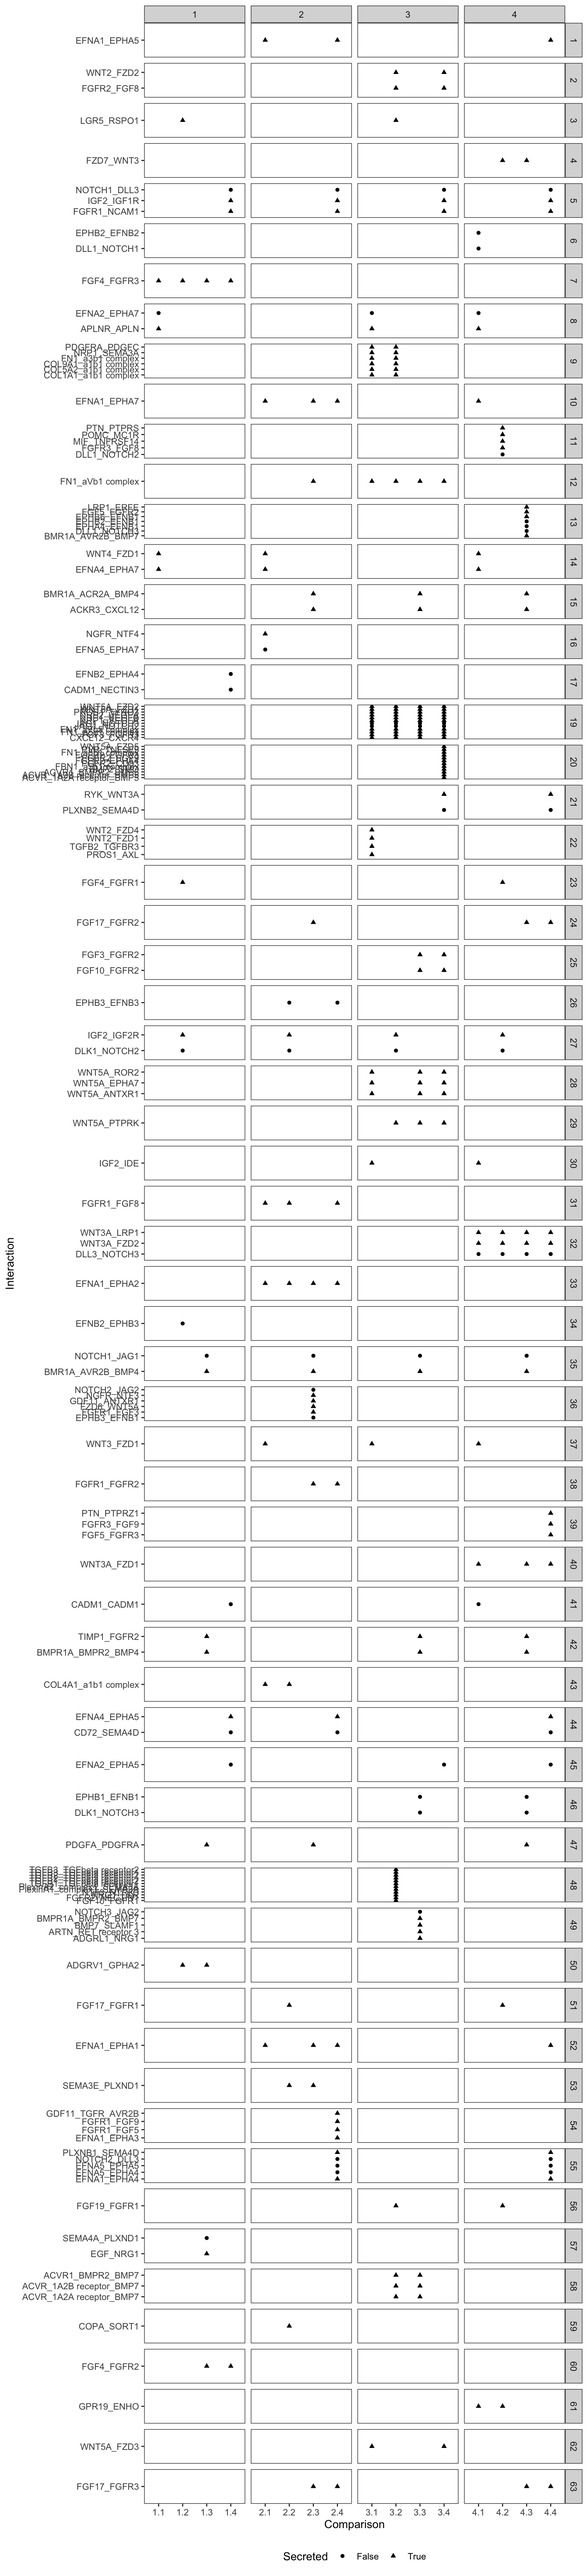
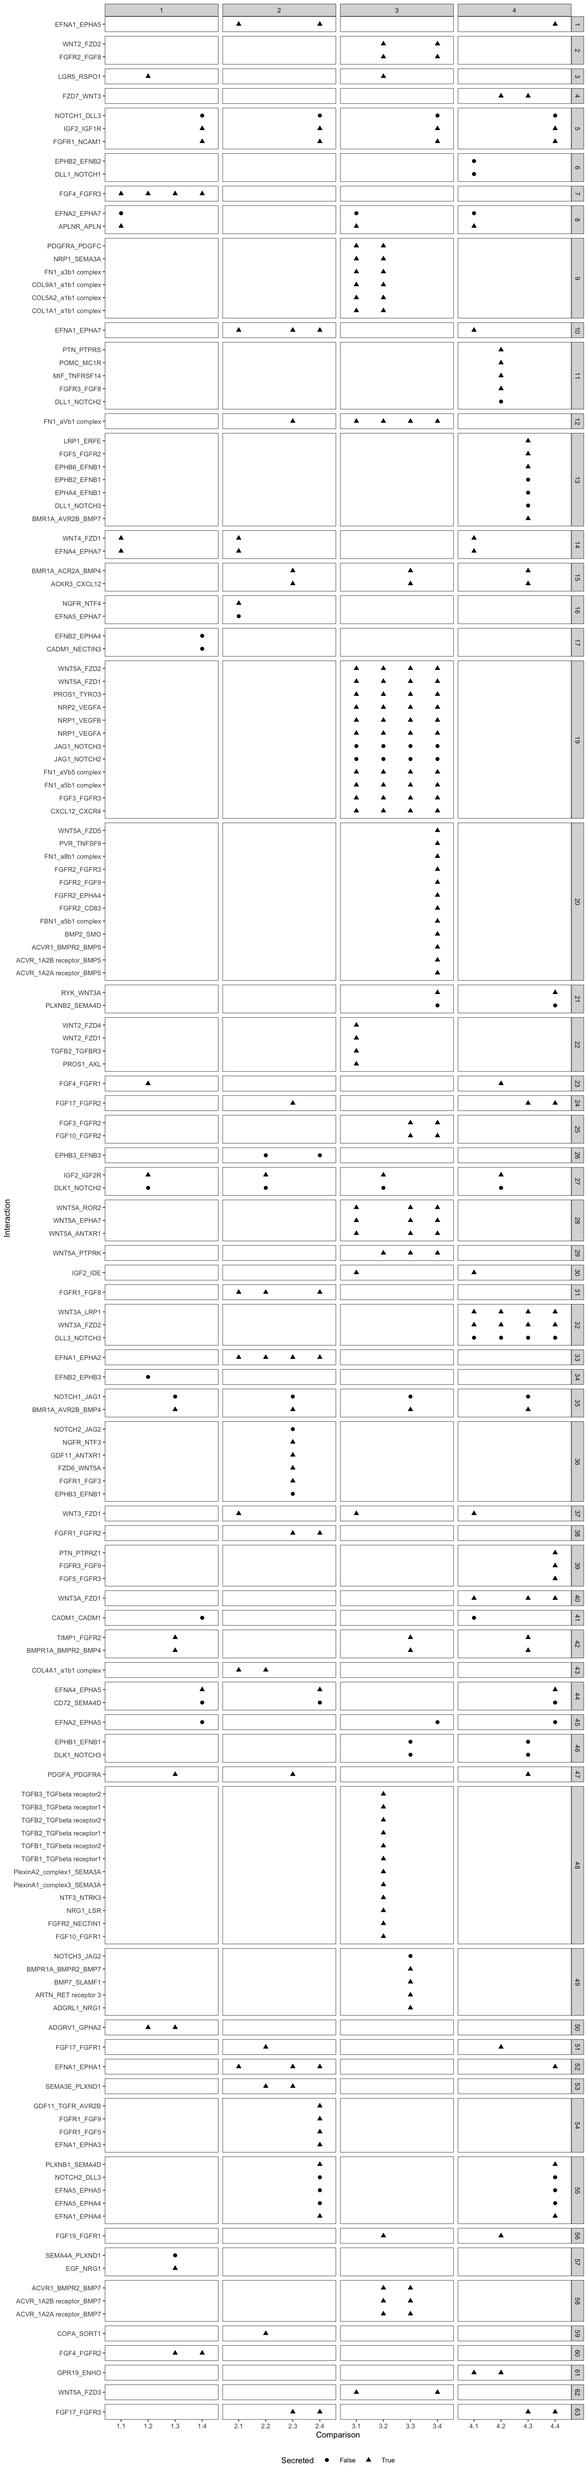
Build

diff --git a/docs/cell-signalling.html b/docs/cell-signalling.html
@@ -465,7 +465,7 @@ div.tocify {
 
 <p>
 <button type="button" class="btn btn-default btn-workflowr btn-workflowr-report" data-toggle="collapse" data-target="#workflowr-report">
-<span class="glyphicon glyphicon-list" aria-hidden="true"></span> workflowr <span class="glyphicon glyphicon-ok text-success" aria-hidden="true"></span>
+<span class="glyphicon glyphicon-list" aria-hidden="true"></span> workflowr <span class="glyphicon glyphicon-exclamation-sign text-danger" aria-hidden="true"></span>
 </button>
 </p>
 <div id="workflowr-report" class="collapse">
@@ -474,7 +474,7 @@ div.tocify {
 <a data-toggle="tab" href="#summary">Summary</a>
 </li>
 <li>
-<a data-toggle="tab" href="#checks"> Checks <span class="glyphicon glyphicon-ok text-success" aria-hidden="true"></span> </a>
+<a data-toggle="tab" href="#checks"> Checks <span class="glyphicon glyphicon-exclamation-sign text-danger" aria-hidden="true"></span> </a>
 </li>
 <li>
 <a data-toggle="tab" href="#versions">Past versions</a>
@@ -486,7 +486,7 @@ div.tocify {
 <strong>Last updated:</strong> 2021-02-19
 </p>
 <p>
-<strong>Checks:</strong> <span class="glyphicon glyphicon-ok text-success" aria-hidden="true"></span> 7 <span class="glyphicon glyphicon-exclamation-sign text-danger" aria-hidden="true"></span> 0
+<strong>Checks:</strong> <span class="glyphicon glyphicon-ok text-success" aria-hidden="true"></span> 6 <span class="glyphicon glyphicon-exclamation-sign text-danger" aria-hidden="true"></span> 1
 </p>
 <p>
 <strong>Knit directory:</strong> <code>LPMP_LHF_C/</code> <span class="glyphicon glyphicon-question-sign" aria-hidden="true" title="This is the local directory in which the code in this file was executed."> </span>
@@ -502,12 +502,12 @@ This reproducible <a href="http://rmarkdown.rstudio.com">R Markdown</a> analysis
 <div class="panel panel-default">
 <div class="panel-heading">
 <p class="panel-title">
-<a data-toggle="collapse" data-parent="#workflowr-checks" href="#strongRMarkdownfilestronguptodate"> <span class="glyphicon glyphicon-ok text-success" aria-hidden="true"></span> <strong>R Markdown file:</strong> up-to-date </a>
+<a data-toggle="collapse" data-parent="#workflowr-checks" href="#strongRMarkdownfilestronguncommittedchanges"> <span class="glyphicon glyphicon-exclamation-sign text-danger" aria-hidden="true"></span> <strong>R Markdown file:</strong> uncommitted changes </a>
 </p>
 </div>
-<div id="strongRMarkdownfilestronguptodate" class="panel-collapse collapse">
+<div id="strongRMarkdownfilestronguncommittedchanges" class="panel-collapse collapse">
 <div class="panel-body">
-<p>Great! Since the R Markdown file has been committed to the Git repository, you know the exact version of the code that produced these results.</p>
+<p>The R Markdown file has unstaged changes. To know which version of the R Markdown file created these results, you’ll want to first commit it to the Git repo. If you’re still working on the analysis, you can ignore this warning. When you’re finished, you can run <code>wflow_publish</code> to commit the R Markdown file and build the HTML.</p>
 </div>
 </div>
 </div>
@@ -574,16 +574,16 @@ This reproducible <a href="http://rmarkdown.rstudio.com">R Markdown</a> analysis
 <div class="panel panel-default">
 <div class="panel-heading">
 <p class="panel-title">
-<a data-toggle="collapse" data-parent="#workflowr-checks" href="#strongRepositoryversionstrongahrefhttpsgithubcomjma1991LPMPLHFCtree2a66265814897d50c914372fc0f5d7076614a0b1targetblank2a66265a"> <span class="glyphicon glyphicon-ok text-success" aria-hidden="true"></span> <strong>Repository version:</strong> <a href="https://github.com/jma1991/LPMP_LHF_C/tree/2a66265814897d50c914372fc0f5d7076614a0b1" target="_blank">2a66265</a> </a>
+<a data-toggle="collapse" data-parent="#workflowr-checks" href="#strongRepositoryversionstrongahrefhttpsgithubcomjma1991LPMPLHFCtree5a99c59cc06de2d140605155c4adacc80e6b8e64targetblank5a99c59a"> <span class="glyphicon glyphicon-ok text-success" aria-hidden="true"></span> <strong>Repository version:</strong> <a href="https://github.com/jma1991/LPMP_LHF_C/tree/5a99c59cc06de2d140605155c4adacc80e6b8e64" target="_blank">5a99c59</a> </a>
 </p>
 </div>
[2 lines of base64/hex data omitted]
 <div class="panel-body">
 <p>
 Great! You are using Git for version control. Tracking code development and connecting the code version to the results is critical for reproducibility.
 </p>
 <p>
-The results in this page were generated with repository version <a href="https://github.com/jma1991/LPMP_LHF_C/tree/2a66265814897d50c914372fc0f5d7076614a0b1" target="_blank">2a66265</a>. See the <em>Past versions</em> tab to see a history of the changes made to the R Markdown and HTML files.
+The results in this page were generated with repository version <a href="https://github.com/jma1991/LPMP_LHF_C/tree/5a99c59cc06de2d140605155c4adacc80e6b8e64" target="_blank">5a99c59</a>. See the <em>Past versions</em> tab to see a history of the changes made to the R Markdown and HTML files.
 </p>
 <p>
 Note that you need to be careful to ensure that all relevant files for the analysis have been committed to Git prior to generating the results (you can use <code>wflow_publish</code> or <code>wflow_git_commit</code>). workflowr only checks the R Markdown file, but you know if there are other scripts or data files that it depends on. Below is the status of the Git repository when the results were generated:
@@ -595,27 +595,16 @@ Ignored files:
     Ignored:    .Rproj.user/
     Ignored:    analysis/.Rhistory
     Ignored:    analysis/cache/
+    Ignored:    output/cellphonedb/
     Ignored:    renv/.gitignore
     Ignored:    renv/library/
     Ignored:    renv/settings.dcf
     Ignored:    shiny/
     Ignored:    slides/
 
-Untracked files:
-    Untracked:  analysis/backup/
-
 Unstaged changes:
     Modified:   _workflowr.R
-    Deleted:    analysis/11-atlas-neighbors.Rmd
-    Deleted:    analysis/12-atlas-trajectory.Rmd
-    Deleted:    analysis/13-atlas-clustering.Rmd
-    Deleted:    analysis/14-atlas-markers.Rmd
-    Deleted:    analysis/15-scenic-analysis.Rmd
-    Deleted:    analysis/16-geneset-activity.Rmd
-    Deleted:    analysis/17-haystack-analysis.Rmd
-    Deleted:    analysis/18-cell-exploration.Rmd
-    Deleted:    analysis/19-cell-heterogeneity.Rmd
-    Modified:   analysis/_site.yml
+    Modified:   analysis/cell-signalling.Rmd
 
 </code></pre>
 <p>
@@ -654,6 +643,40 @@ Message
 </tr>
 </thead>
 <tbody>
+<tr>
+<td>
+Rmd
+</td>
+<td>
+<a href="https://github.com/jma1991/LPMP_LHF_C/blob/5a99c59cc06de2d140605155c4adacc80e6b8e64/analysis/cell-signalling.Rmd" target="_blank">5a99c59</a>
+</td>
+<td>
+James Ashmore
+</td>
+<td>
+2021-02-19
+</td>
+<td>
+Build
+</td>
+</tr>
+<tr>
+<td>
+html
+</td>
+<td>
+<a href="https://rawcdn.githack.com/jma1991/LPMP_LHF_C/e3a9368d38263144135f66515c9818b10208e949/docs/cell-signalling.html" target="_blank">e3a9368</a>
+</td>
+<td>
+James Ashmore
+</td>
+<td>
+2021-02-19
+</td>
+<td>
+Build
+</td>
+</tr>
 <tr>
 <td>
 Rmd
@@ -821,25 +844,99 @@ res$cluster &lt;- knn$cluster[res$id_cp_interaction]</code></pre>
 <pre class="r"><code>ggplot(res, aes(comparison, interacting_pair, shape = secreted)) + 
   geom_point() + 
   labs(x = &quot;Comparison&quot;, y = &quot;Interaction&quot;, shape = &quot;Secreted&quot;) + 
-  facet_grid(rows = vars(cluster), cols = vars(comparison_a), scales = &quot;free&quot;) + 
-  theme_bw() + 
+  facet_grid(rows = vars(cluster), cols = vars(comparison_a), scales = &quot;free&quot;, space = &quot;free&quot;) + 
+  theme_bw(base_size = 8) + 
   theme(
     legend.position = &quot;bottom&quot;,
     panel.grid = element_blank()
   )</code></pre>
 <p><img src="figure/cell-signalling.Rmd/unnamed-chunk-26-1.png" width="768" style="display: block; margin: auto;" /></p>
+<p>
+<button type="button" class="btn btn-default btn-xs btn-workflowr btn-workflowr-fig" data-toggle="collapse" data-target="#fig-unnamed-chunk-26-1">
+Past versions of unnamed-chunk-26-1.png
+</button>
+</p>
+<div id="fig-unnamed-chunk-26-1" class="collapse">
+<div class="table-responsive">
+<table class="table table-condensed table-hover">
+<thead>
+<tr>
+<th>
+Version
+</th>
+<th>
+Author
+</th>
+<th>
+Date
+</th>
+</tr>
+</thead>
+<tbody>
+<tr>
+<td>
+<a href="https://github.com/jma1991/LPMP_LHF_C/blob/e3a9368d38263144135f66515c9818b10208e949/docs/figure/cell-signalling.Rmd/unnamed-chunk-26-1.png" target="_blank">e3a9368</a>
+</td>
+<td>
+James Ashmore
+</td>
+<td>
+2021-02-19
+</td>
+</tr>
+</tbody>
+</table>
+</div>
+</div>
 <p>Plot results with effect size:</p>
 <pre class="r"><code>ggplot(res, aes(comparison, interacting_pair, colour = log2(mean + 0.001), size = -log10(pvalue + 0.001), shape = secreted)) + 
   geom_point() + 
   scale_colour_distiller(palette = &quot;Reds&quot;, direction = 1) + 
   labs(x = &quot;Comparison&quot;, y = &quot;Interaction&quot;, colour = &quot;log2(Mean)&quot;, size = &quot;-log10(P-value)&quot;, shape = &quot;Secreted&quot;) + 
-  facet_grid(rows = vars(cluster), cols = vars(comparison_a), scales = &quot;free&quot;) + 
-  theme_bw() + 
+  facet_grid(rows = vars(cluster), cols = vars(comparison_a), scales = &quot;free&quot;, space = &quot;free&quot;) + 
+  theme_bw(base_size = 8) + 
   theme(
     legend.position = &quot;bottom&quot;,
     panel.grid = element_blank()
   )</code></pre>
 <p><img src="figure/cell-signalling.Rmd/unnamed-chunk-27-1.png" width="768" style="display: block; margin: auto;" /></p>
+<p>
+<button type="button" class="btn btn-default btn-xs btn-workflowr btn-workflowr-fig" data-toggle="collapse" data-target="#fig-unnamed-chunk-27-1">
+Past versions of unnamed-chunk-27-1.png
+</button>
+</p>
+<div id="fig-unnamed-chunk-27-1" class="collapse">
+<div class="table-responsive">
+<table class="table table-condensed table-hover">
+<thead>
+<tr>
+<th>
+Version
+</th>
+<th>
+Author
+</th>
+<th>
+Date
+</th>
+</tr>
+</thead>
+<tbody>
+<tr>
+<td>
+<a href="https://github.com/jma1991/LPMP_LHF_C/blob/e3a9368d38263144135f66515c9818b10208e949/docs/figure/cell-signalling.Rmd/unnamed-chunk-27-1.png" target="_blank">e3a9368</a>
+</td>
+<td>
+James Ashmore
+</td>
+<td>
+2021-02-19
+</td>
+</tr>
+</tbody>
+</table>
+</div>
+</div>
 </div>
 <div id="summary" class="section level2">
 <h2>Summary</h2>

diff --git a/docs/index.html b/docs/index.html
@@ -435,16 +435,16 @@ This reproducible <a href="http://rmarkdown.rstudio.com">R Markdown</a> analysis
 <div class="panel panel-default">
 <div class="panel-heading">
 <p class="panel-title">
-<a data-toggle="collapse" data-parent="#workflowr-checks" href="#strongRepositoryversionstrongahrefhttpsgithubcomjma1991LPMPLHFCtree2a66265814897d50c914372fc0f5d7076614a0b1targetblank2a66265a"> <span class="glyphicon glyphicon-ok text-success" aria-hidden="true"></span> <strong>Repository version:</strong> <a href="https://github.com/jma1991/LPMP_LHF_C/tree/2a66265814897d50c914372fc0f5d7076614a0b1" target="_blank">2a66265</a> </a>
+<a data-toggle="collapse" data-parent="#workflowr-checks" href="#strongRepositoryversionstrongahrefhttpsgithubcomjma1991LPMPLHFCtree5a99c59cc06de2d140605155c4adacc80e6b8e64targetblank5a99c59a"> <span class="glyphicon glyphicon-ok text-success" aria-hidden="true"></span> <strong>Repository version:</strong> <a href="https://github.com/jma1991/LPMP_LHF_C/tree/5a99c59cc06de2d140605155c4adacc80e6b8e64" target="_blank">5a99c59</a> </a>
 </p>
 </div>
[2 lines of base64/hex data omitted]
 <div class="panel-body">
 <p>
 Great! You are using Git for version control. Tracking code development and connecting the code version to the results is critical for reproducibility.
 </p>
 <p>
-The results in this page were generated with repository version <a href="https://github.com/jma1991/LPMP_LHF_C/tree/2a66265814897d50c914372fc0f5d7076614a0b1" target="_blank">2a66265</a>. See the <em>Past versions</em> tab to see a history of the changes made to the R Markdown and HTML files.
+The results in this page were generated with repository version <a href="https://github.com/jma1991/LPMP_LHF_C/tree/5a99c59cc06de2d140605155c4adacc80e6b8e64" target="_blank">5a99c59</a>. See the <em>Past versions</em> tab to see a history of the changes made to the R Markdown and HTML files.
 </p>
 <p>
 Note that you need to be careful to ensure that all relevant files for the analysis have been committed to Git prior to generating the results (you can use <code>wflow_publish</code> or <code>wflow_git_commit</code>). workflowr only checks the R Markdown file, but you know if there are other scripts or data files that it depends on. Below is the status of the Git repository when the results were generated:
@@ -456,27 +456,16 @@ Ignored files:
     Ignored:    .Rproj.user/
     Ignored:    analysis/.Rhistory
     Ignored:    analysis/cache/
+    Ignored:    output/cellphonedb/
     Ignored:    renv/.gitignore
     Ignored:    renv/library/
     Ignored:    renv/settings.dcf
     Ignored:    shiny/
     Ignored:    slides/
 
-Untracked files:
-    Untracked:  analysis/backup/
-
 Unstaged changes:
     Modified:   _workflowr.R
-    Deleted:    analysis/11-atlas-neighbors.Rmd
-    Deleted:    analysis/12-atlas-trajectory.Rmd
-    Deleted:    analysis/13-atlas-clustering.Rmd
-    Deleted:    analysis/14-atlas-markers.Rmd
-    Deleted:    analysis/15-scenic-analysis.Rmd
-    Deleted:    analysis/16-geneset-activity.Rmd
-    Deleted:    analysis/17-haystack-analysis.Rmd
-    Deleted:    analysis/18-cell-exploration.Rmd
-    Deleted:    analysis/19-cell-heterogeneity.Rmd
-    Modified:   analysis/_site.yml
+    Modified:   analysis/cell-signalling.Rmd
 
 </code></pre>
 <p>
@@ -515,6 +504,23 @@ Message
 </tr>
 </thead>
 <tbody>
+<tr>
+<td>
+html
+</td>
+<td>
+<a href="https://rawcdn.githack.com/jma1991/LPMP_LHF_C/e3a9368d38263144135f66515c9818b10208e949/docs/index.html" target="_blank">e3a9368</a>
+</td>
+<td>
+James Ashmore
+</td>
+<td>
+2021-02-19
+</td>
+<td>
+Build
+</td>
+</tr>
 <tr>
 <td>
 html
